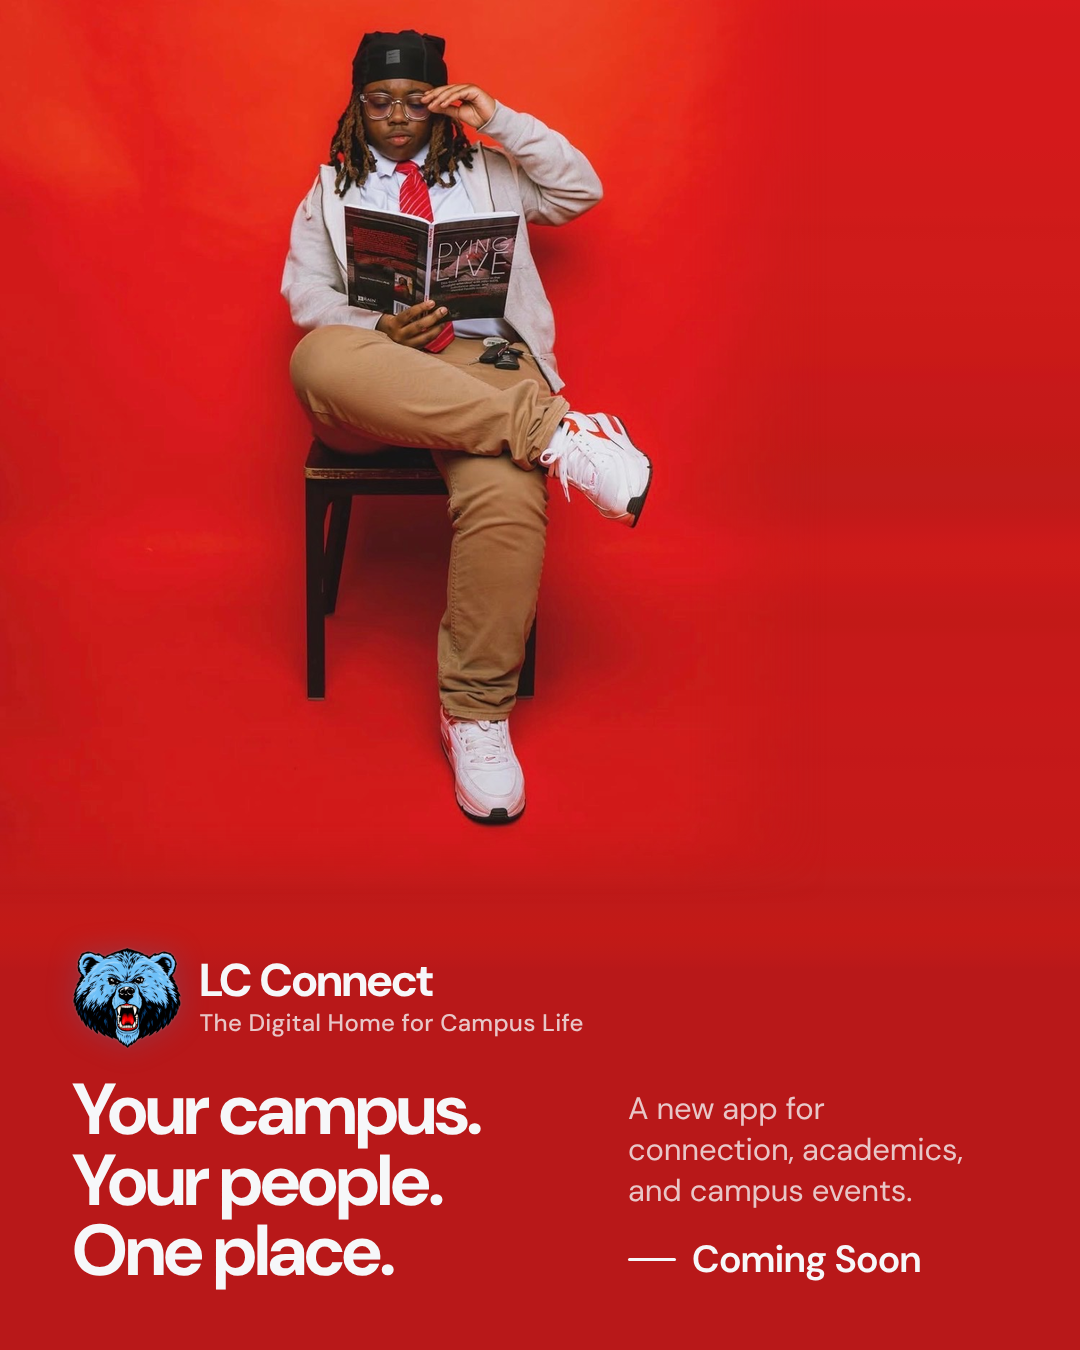
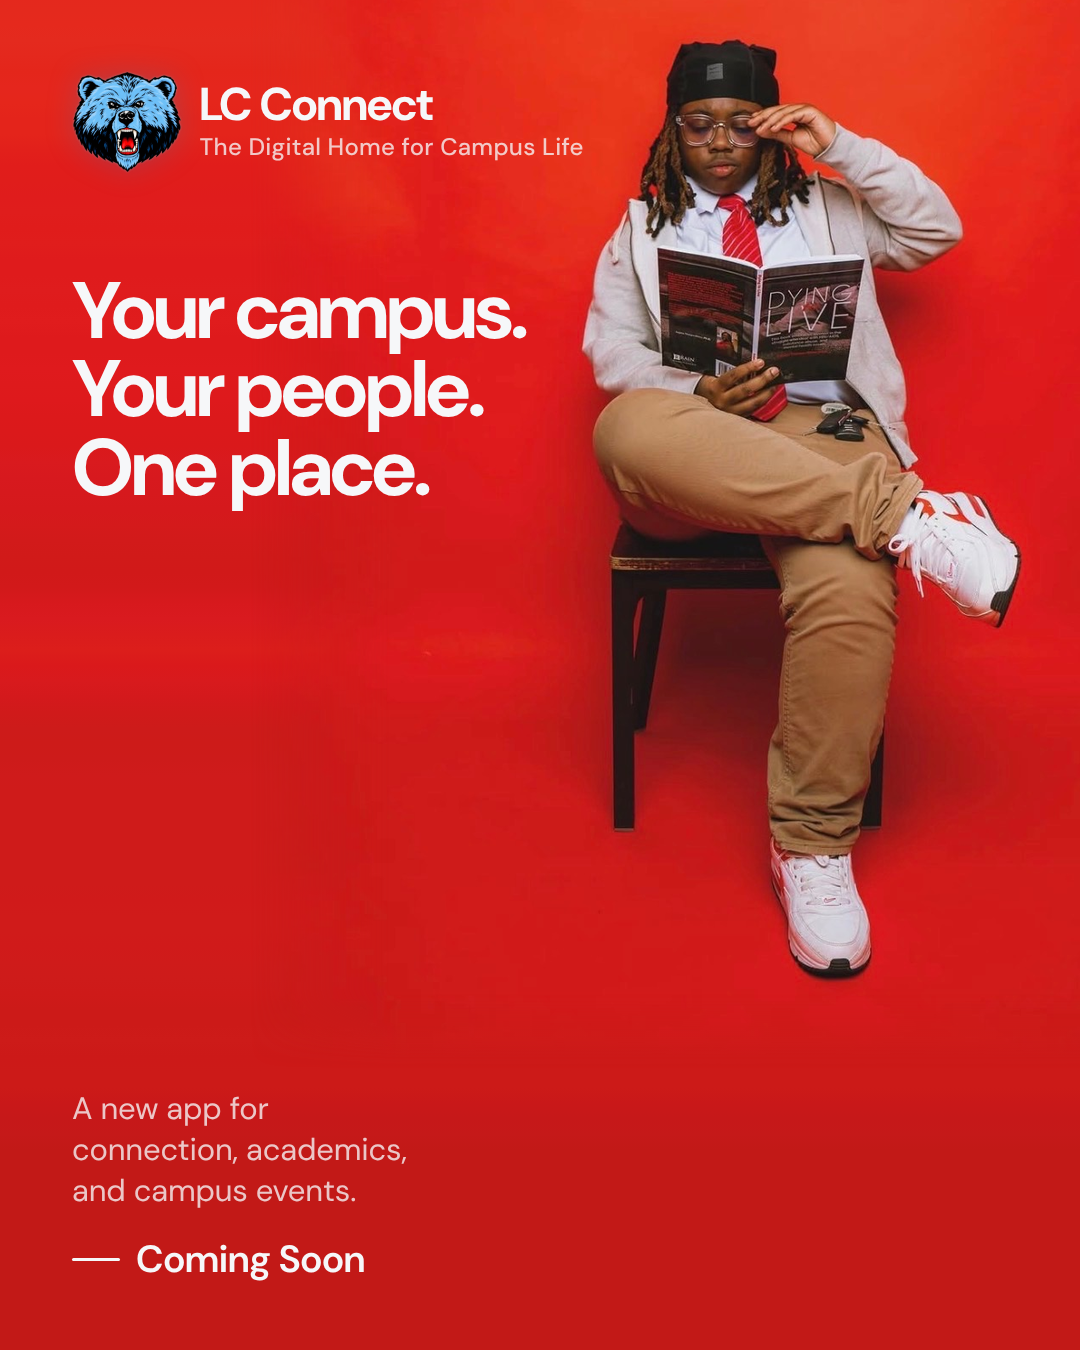
student-05: side-column layout on full red
Subject right at 0.85 with the text column on the left, as on the other
single portraits. Accent stays white: brand blue measures 1.3:1 on this
red and the light app blue 2.4:1.

Claude-Session: https://claude.ai/code/session_01Q1CBtzs9MBD2ynYwK4E3t9

diff --git a/campaign/README.md b/campaign/README.md
@@ -112,12 +112,12 @@ Copy, colours, type and the logo treatment are deliberately **not** per-student:
 - **group-03** (four students on a balcony, bright white building): same treatment as student-04 —
   full width at 0.81 (the right-hand student's foot and hand touch the frame edge), dissolving into
   black on the white ledge just below the shoes.
-- **student-05** (seated reader on saturated red paper): the red is kept full-bleed — white type
-  reads on it (headline 6.2:1, 78%-white supporting copy 4.2:1, both large text), but the brand
-  blue measures ~1.1:1 against it, so this poster sets `layout.accent` to white for "LC",
-  "One place." and the Coming Soon rule; the blue stays in the bear. The photo sits flush left at
-  0.72, the right side and the bottom continue the photo's own sampled red, and the photo's lower
-  edge dissolves into that red just above the photographer's mark.
+- **student-05** (seated reader on saturated red paper): the red is kept full-bleed and the type
+  uses the single-portrait side-column layout (subject right at 0.85, left side continued in the
+  photo's own sampled red; sample strip set past the photographer's mark). White type reads on the
+  red (headline 5–6:1); the brand blue measures 1.3:1 and the light app blue 2.4:1, so this poster
+  sets `layout.accent` to white for "LC", "One place." and the Coming Soon rule — the blue stays in
+  the bear. The photo's lower edge dissolves into the red just above the photographer's mark.
 - **Coming Soon** is a rule-and-label signature in the type system rather than a badge, so it reads
   as part of the campaign rather than a sticker.
 - **Mobile.** Smallest text is 24px at 1080 wide (~9px on a phone feed); body copy is 31px and the
